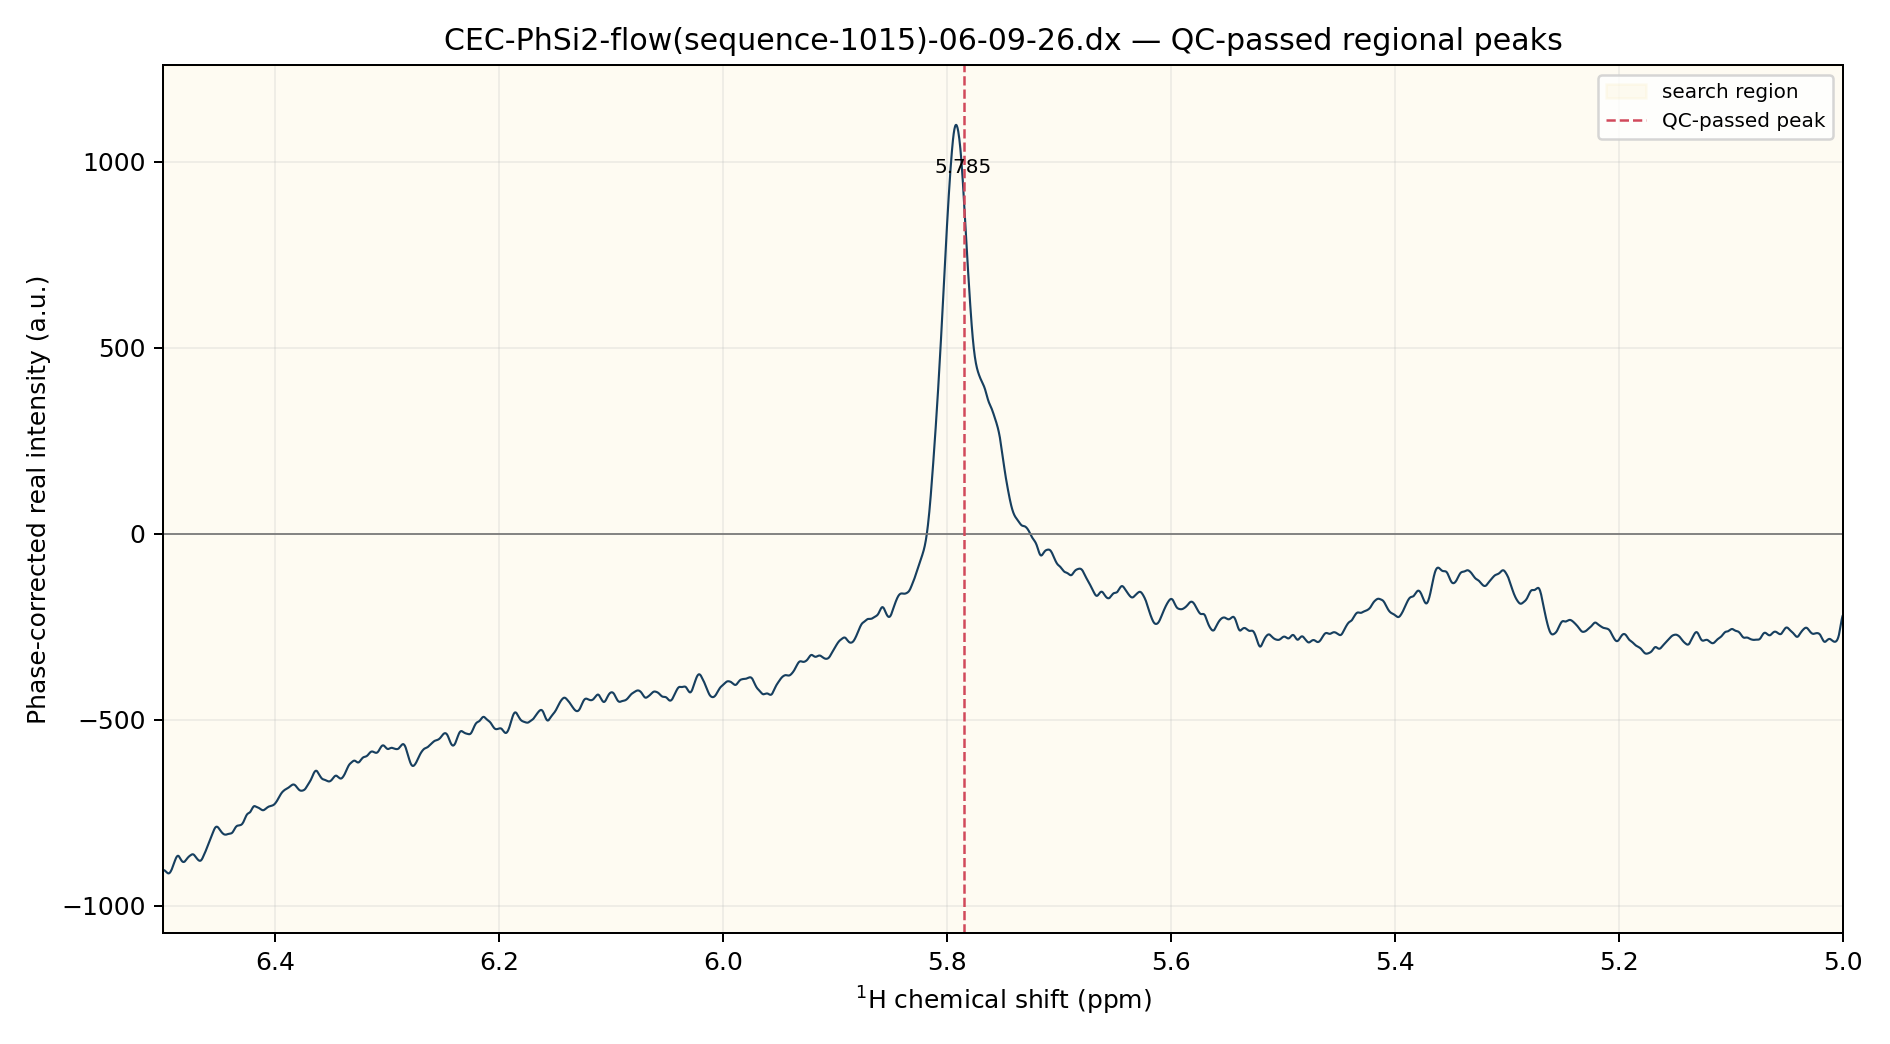
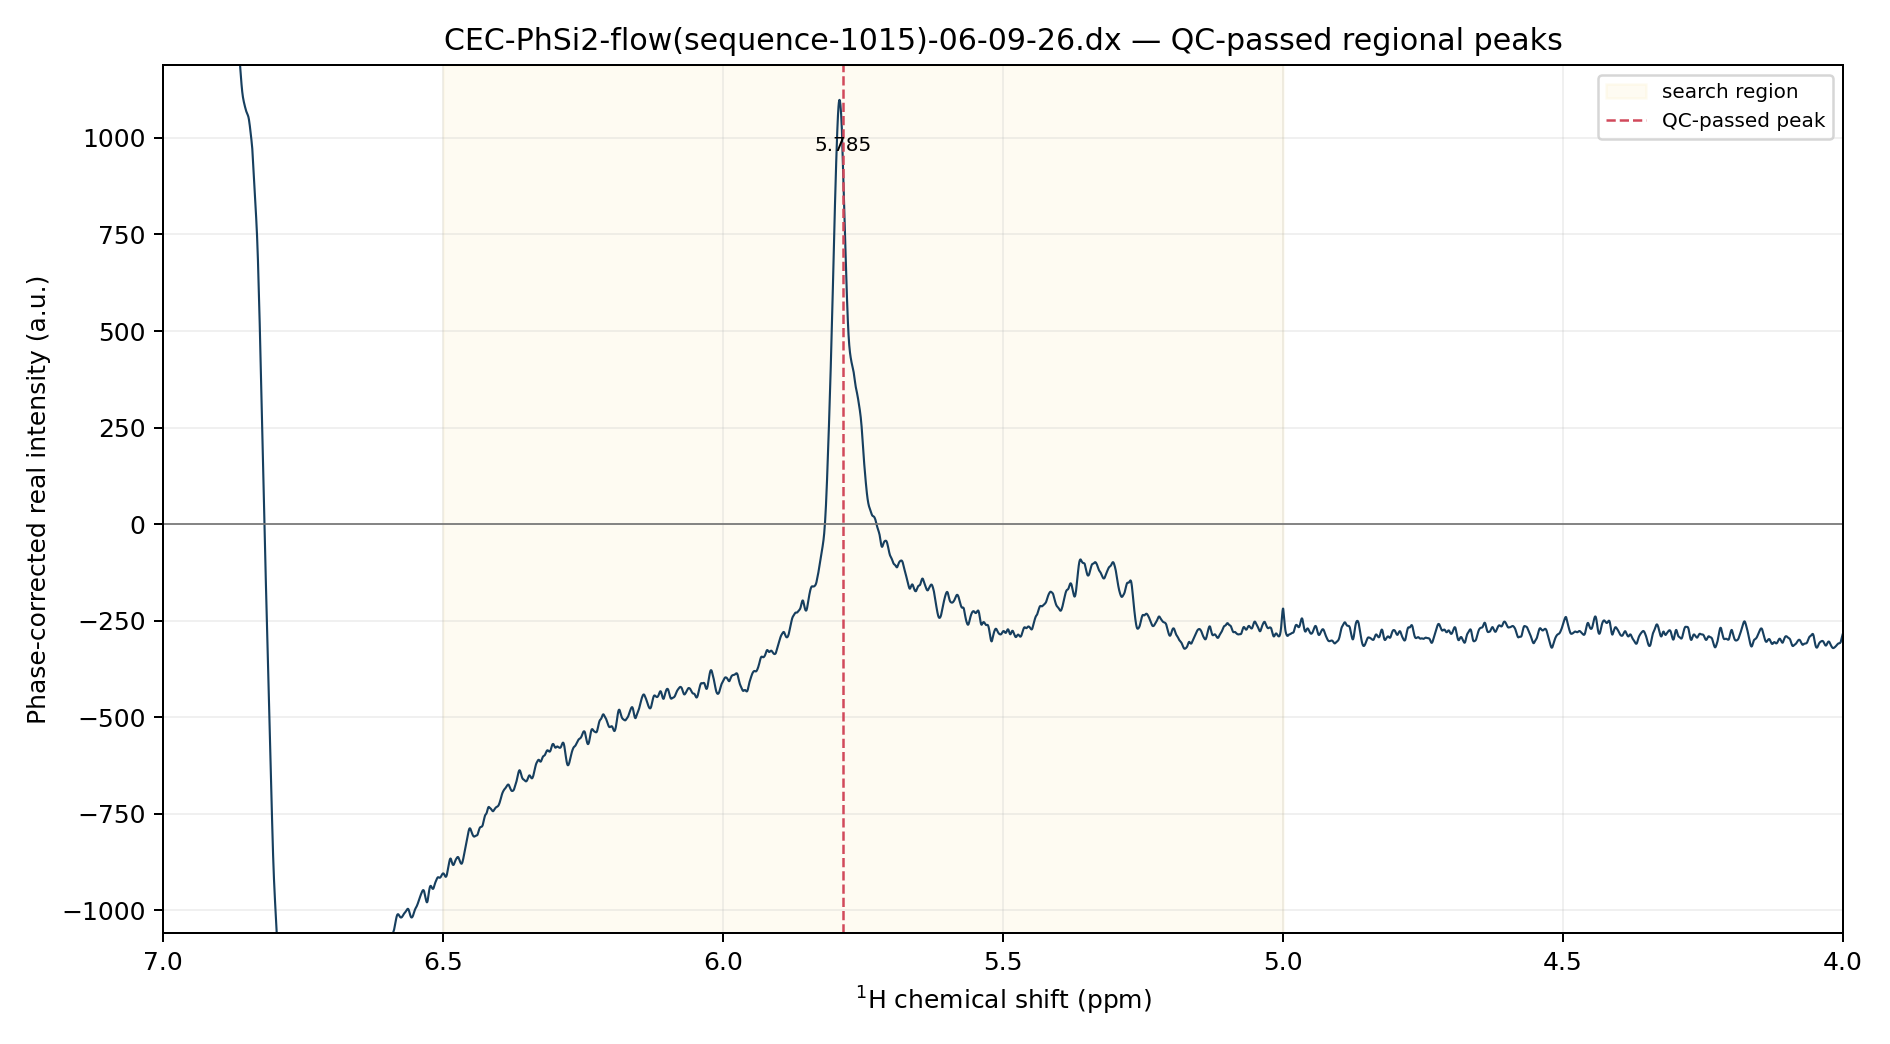
process_fid: region plot shows 4-7 ppm context, y scaled to target peak
The target peak near ~5.7 ppm rides on the tail of the toluene aromatic
peak (~7 ppm). Widen the region plot's x-axis to a configurable display
window (default 4-7 ppm, --display-min/--display-max) so that tail is
visible as the toluene peak it is, while scaling the y-axis to the detected
peak height. A taller neighbour (toluene, or any future taller peak) clips
off the top instead of flattening the target peak.

diff --git a/scripts/nmr/process_fid.py b/scripts/nmr/process_fid.py
@@ -91,6 +91,12 @@ def _parser(config_defaults=None) -> argparse.ArgumentParser:
     )
     parser.add_argument("--region-min", type=float, default=5.0)
     parser.add_argument("--region-max", type=float, default=6.5)
+    # Wider ppm window shown in the region plot for context (peaks are still
+    # only detected within --region-min/--region-max). The y-axis is scaled to
+    # the detected peak, so a taller neighbour (e.g. toluene ~7 ppm) is allowed
+    # to clip off the top rather than flatten the target peak.
+    parser.add_argument("--display-min", type=float, default=4.0)
+    parser.add_argument("--display-max", type=float, default=7.0)
     parser.add_argument("--min-prominence-snr", type=float, default=5.0)
     parser.add_argument("--min-peak-distance-ppm", type=float, default=0.04)
     parser.add_argument("--min-peak-width-ppm", type=float, default=0.015)
@@ -252,22 +258,39 @@ def _plot_real(
     peaks: tuple[float, ...],
     *,
     zoom: bool,
+    display: tuple[float, float] | None = None,
 ) -> Path:
     import numpy as np
 
     plt = _get_plotting()
+    ppm = np.asarray(ppm)
+    real = np.asarray(real)
     fig, ax = plt.subplots(figsize=(10.5, 5.8), dpi=180)
     ax.plot(ppm, real, color="#173f5f", linewidth=0.85)
     ax.axhline(0, color="#777777", linewidth=0.7)
     lo, hi = sorted(region)
     ax.axvspan(lo, hi, color="#f4d35e", alpha=0.08, label="search region")
     if zoom:
-        visible = (ppm >= lo) & (ppm <= hi)
-        y = np.asarray(real)[visible]
-        ymin, ymax = float(np.min(y)), float(np.max(y))
-        pad = 0.08 * (ymax - ymin) if ymax > ymin else 1.0
-        ax.set_xlim(hi, lo)
-        ax.set_ylim(ymin - pad, ymax + pad)
+        # x-axis: wider display window for context (default 4-7 ppm).
+        dlo, dhi = sorted(display) if display else (lo, hi)
+        ax.set_xlim(dhi, dlo)
+        # y-axis: scale to the detected peak so a taller neighbour (e.g. the
+        # toluene aromatic peak near 7 ppm) clips off the top instead of
+        # flattening the target peak. Baseline floor comes from the search
+        # region so the local slope stays visible.
+        in_region = (ppm >= lo) & (ppm <= hi)
+        region_y = real[in_region]
+        if peaks:
+            ymax = max(
+                float(real[int(np.argmin(np.abs(ppm - p)))]) for p in peaks
+            )
+        elif region_y.size:
+            ymax = float(np.max(region_y))
+        else:
+            ymax = 1.0
+        ymin = float(np.min(region_y)) if region_y.size else -1.0
+        span = (ymax - ymin) if ymax > ymin else 1.0
+        ax.set_ylim(ymin - 0.08 * span, ymax + 0.15 * span)
     else:
         ax.set_xlim(float(np.max(ppm)), float(np.min(ppm)))
     for index, peak_ppm in enumerate(peaks):
@@ -669,6 +692,7 @@ def main(argv: list[str] | None = None) -> int:
                 (args.region_min, args.region_max),
                 positions,
                 zoom=True,
+                display=(args.display_min, args.display_max),
             )
             spectrum_csv = ""
             if args.export_csv:
